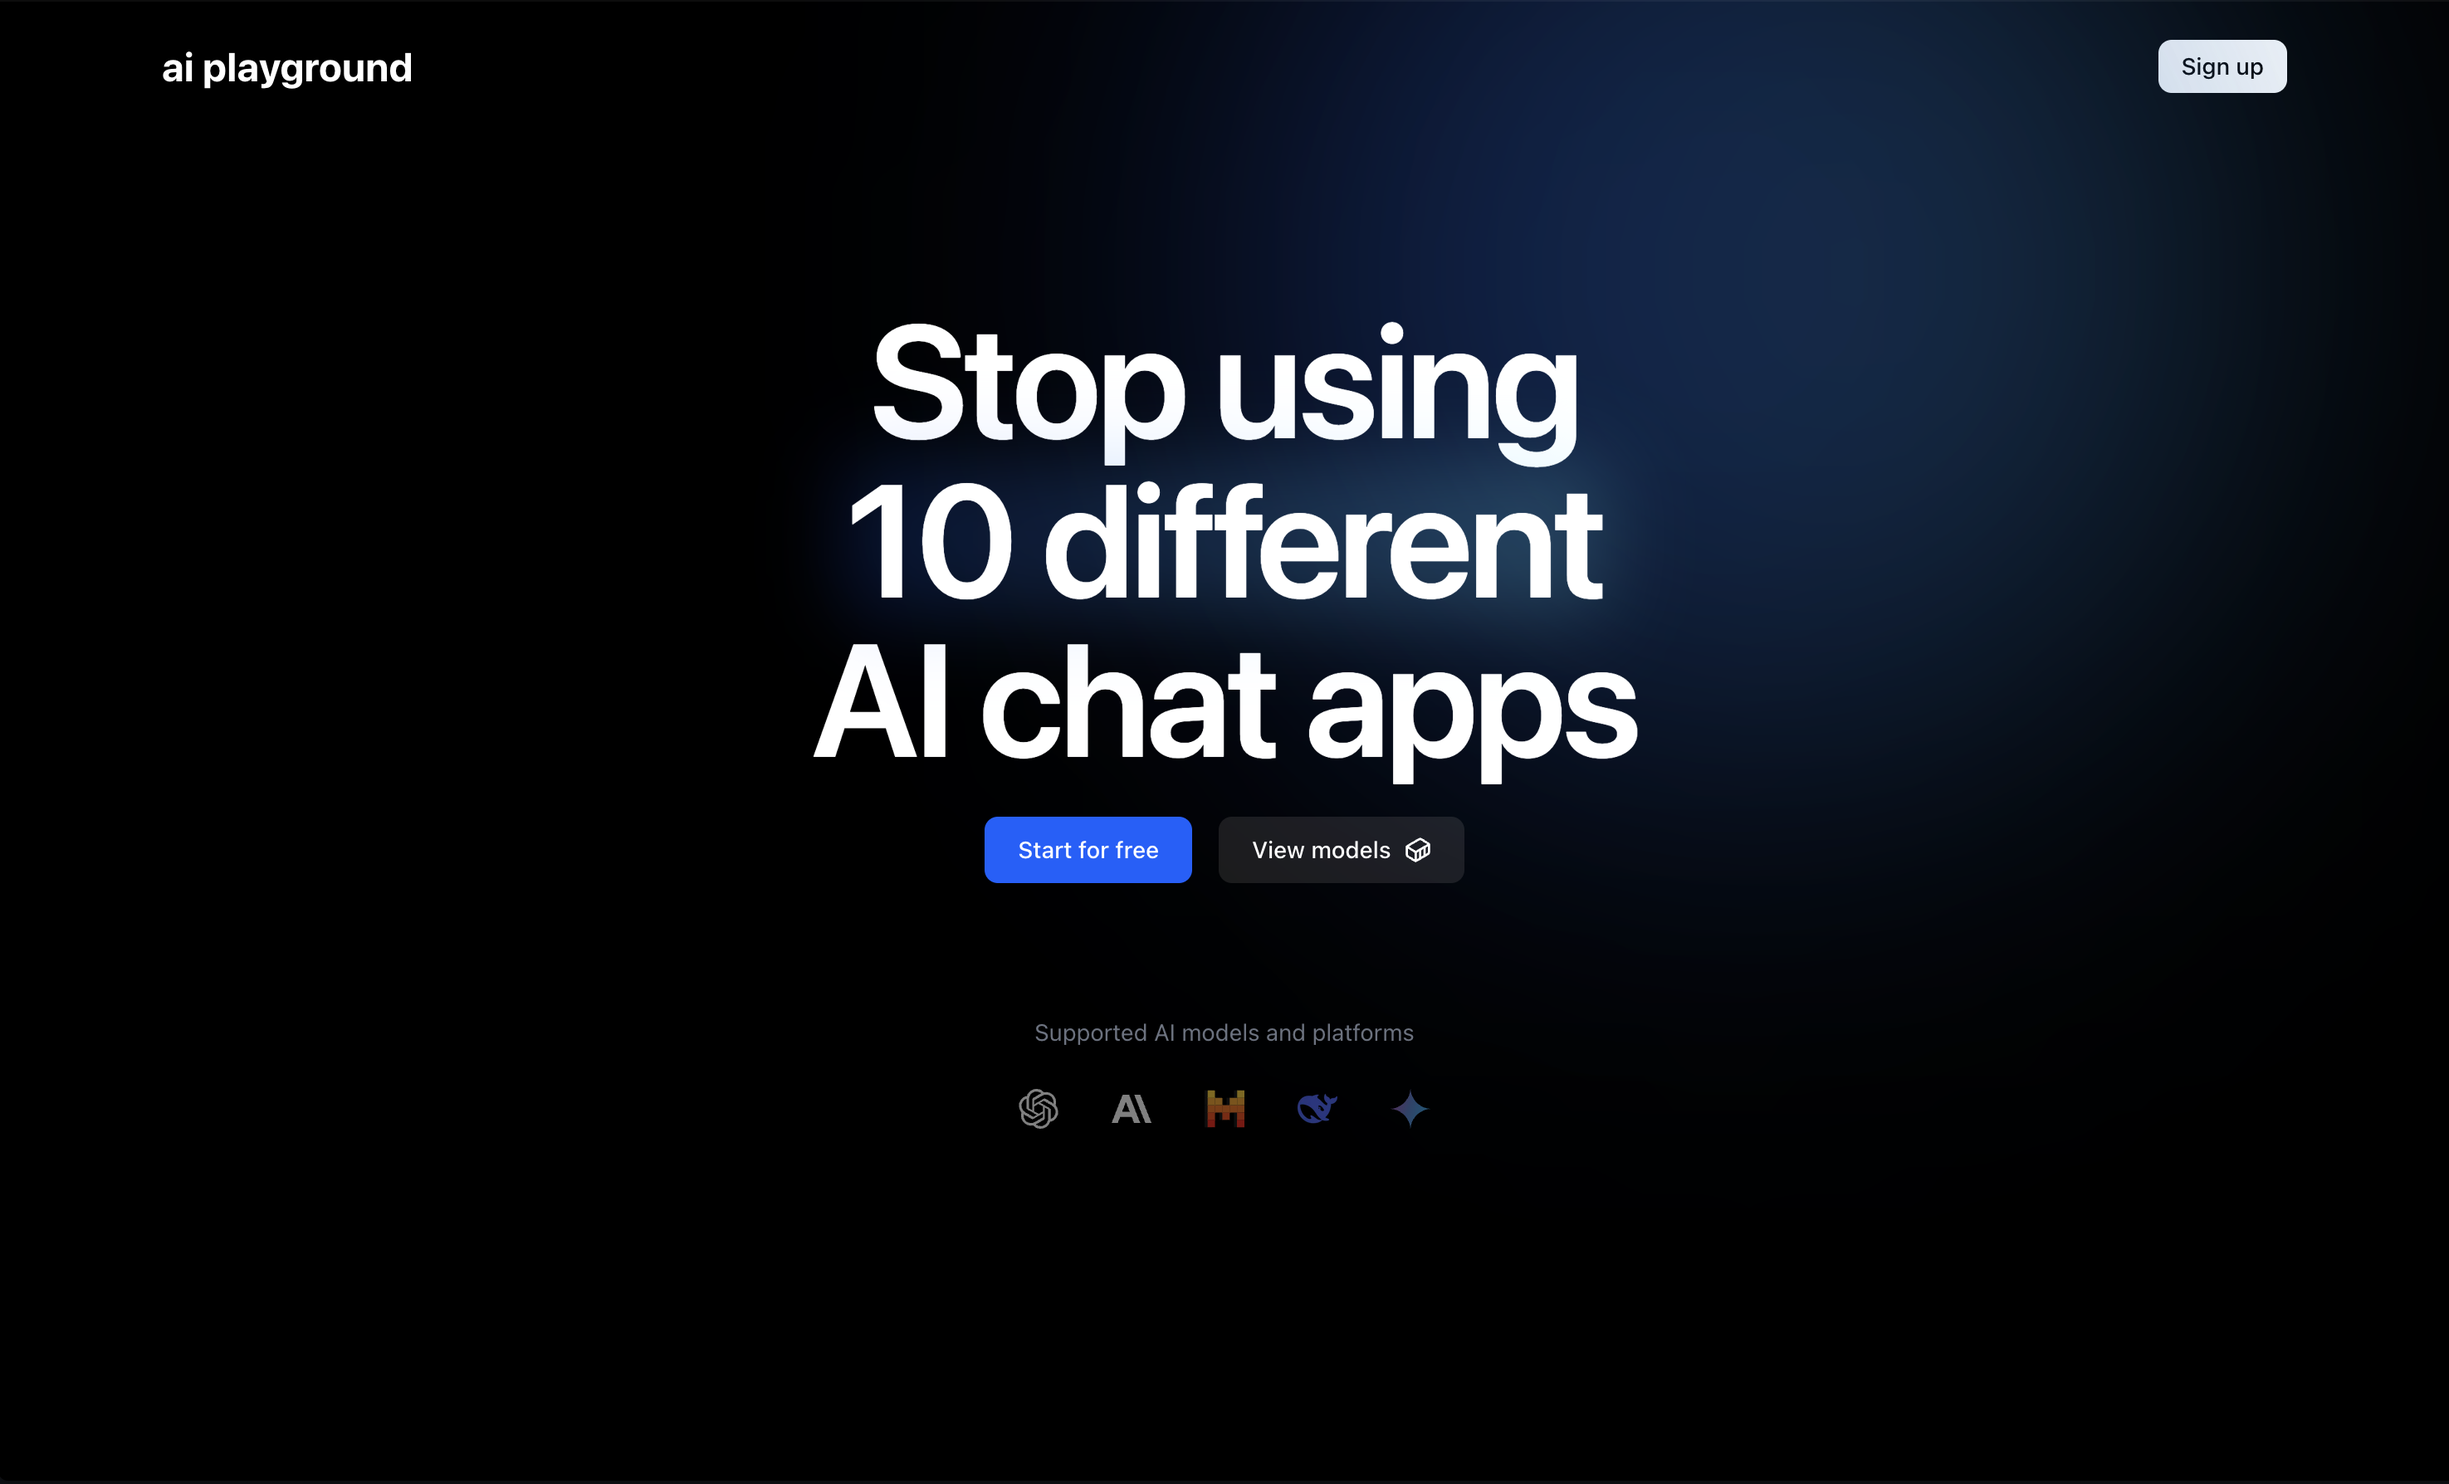
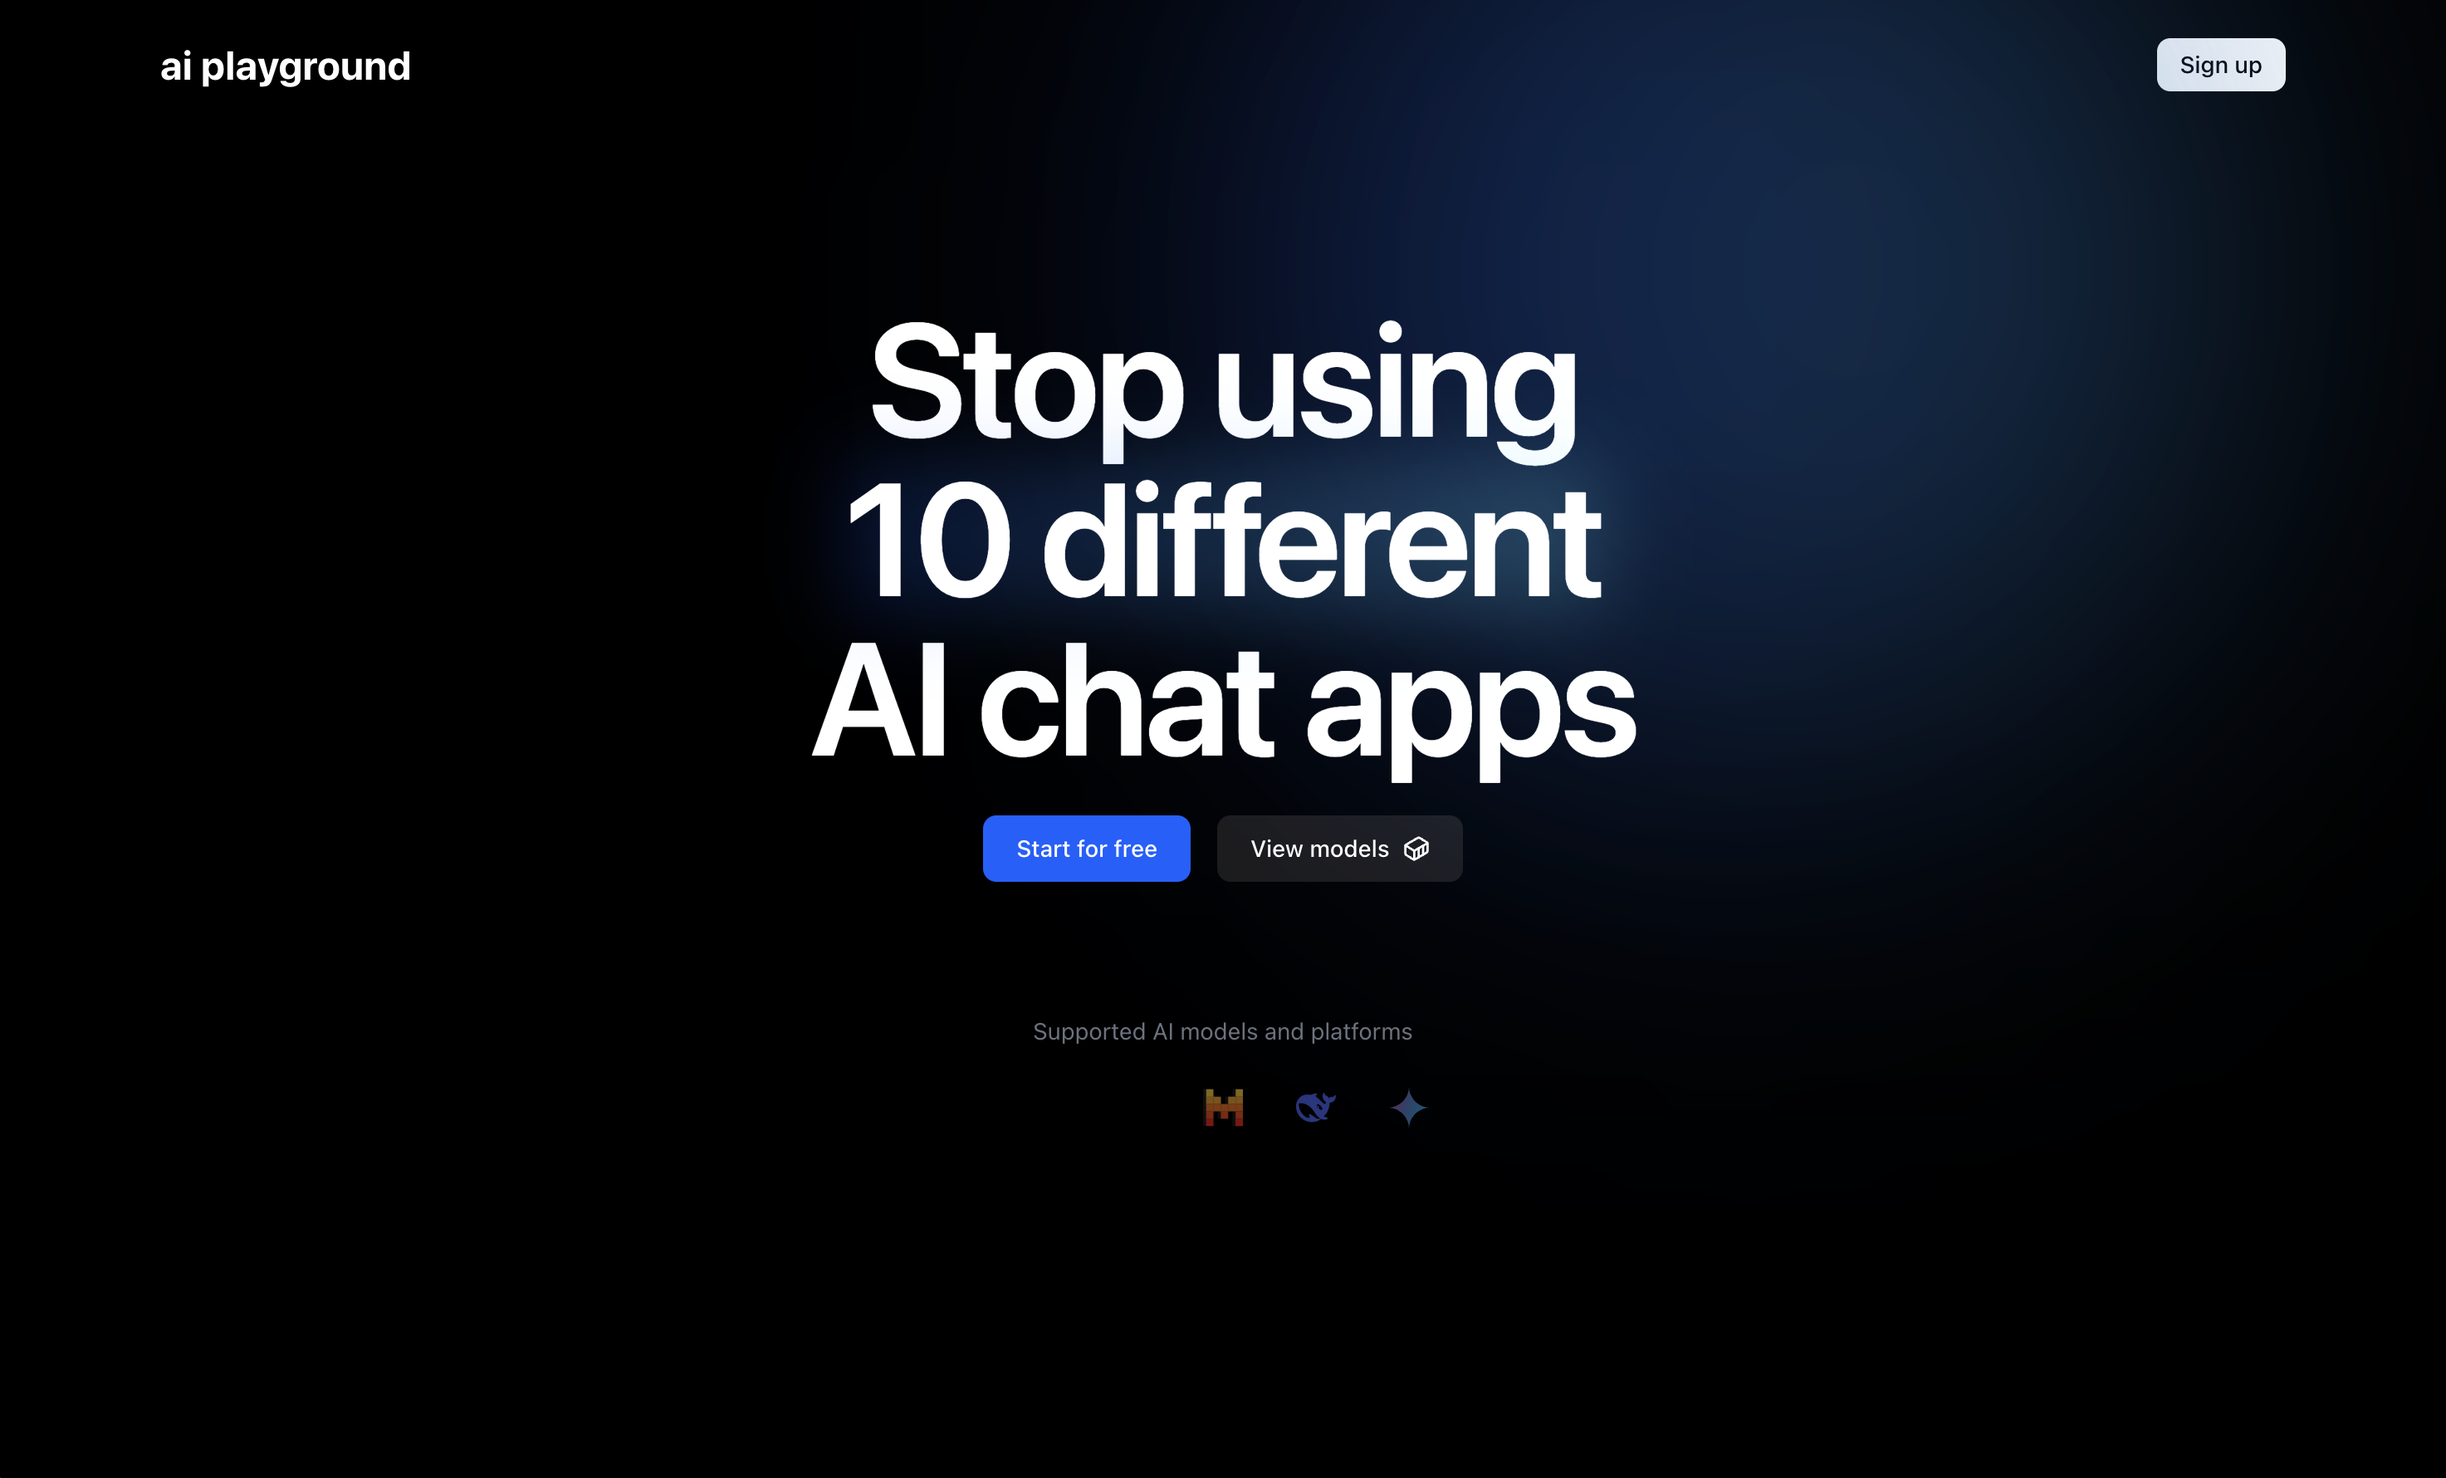
projects ui revamp

diff --git a/src/components/projects.tsx b/src/components/projects.tsx
@@ -1,18 +1,23 @@
 "use client";
 
-import { motion } from "motion/react";
 import Image from "next/image";
 import Link from "next/link";
 
 interface Project {
   title: string;
   description: string;
-  link: string;
+  link?: string;
   image: string;
   featured?: boolean;
 }
 
 export const projects: Project[] = [
+  {
+    title: "HyperEdit",
+    description: "transform your photos into beautiful art",
+    image: "/project/hyperedit.png",
+    featured: true,
+  },
   {
     title: "ai playground",
     description: "chat with every ai model",
@@ -22,19 +27,17 @@ export const projects: Project[] = [
   },
   {
     title: "ReviewBlocks",
-    description:
-      "course review website to help you choose your electives better",
+    description: "read reviews and choose your electives better",
     link: "https://reviewblocks.com",
     image: "/project/reviewblocks.png",
-    featured: true,
+    featured: false,
   },
   {
     title: "Xeno Events",
     description:
-      "events platform where you can create, manage and register for events. includes a qr based ticketing system",
-    link: "https://github.com/4tyam/xeno-events",
+      "events platform where you can create, manage and register for events. Includes a qr based ticketing system",
     image: "/project/xenoevents.png",
-    featured: true,
+    featured: false,
   },
 ];
 
@@ -42,56 +45,48 @@ interface ProjectsProps {
   featured?: boolean;
 }
 
-const linkFilter = (link: string) => {
-  return link.replace(/^https?:\/\/|\/$/g, "");
-};
-
 export default function Projects({ featured }: ProjectsProps) {
   const filteredProjects = featured
     ? projects.filter((project) => project.featured)
     : projects;
 
   return (
-    <div className="space-y-24">
+    <div className="space-y-32 sm:space-y-40 pb-20">
       {filteredProjects.map((project) => (
         <div key={project.title} className="group relative">
-          <div className="flex flex-col sm:flex-row gap-4 sm:gap-8">
-            <div className="flex-1 flex flex-col justify-between space-y-4 sm:space-y-0">
-              <div className="space-y-1">
-                <motion.a
+          <div className="flex flex-col md:flex-row gap-4 md:gap-6 items-center">
+            <div className="flex-1 order-2 md:order-1 w-full md:w-auto text-center sm:text-left">
+              <h2 className="text-xl sm:text-2xl font-medium hover:text-foreground/70 transition-colors inline-block">
+                {project.title}
+              </h2>
+              <p className="text-sm sm:text-base text-foreground/80 max-w-xl mt-0.5 mx-auto px-4 sm:px-0">
+                {project.description}
+              </p>
+
+              {project.link && (
+                <Link
                   href={project.link}
                   target="_blank"
                   rel="noopener noreferrer"
-                  className="text-lg sm:text-xl font-medium hover:text-foreground/70 transition-colors inline-block"
-                  initial={{ y: 0 }}
-                  whileHover={{ y: -3 }}
-                  transition={{ duration: 0.2 }}
                 >
-                  {project.title}
-                </motion.a>
-                <p className="text-foreground/80 max-w-xl text-sm sm:text-base">
-                  {project.description}
-                </p>
-              </div>
-              <Link
-                target="_blank"
-                rel="noopener noreferrer"
-                href={project.link}
-                className="text-xs text-gray-500 italic hover:text-foreground/80 transition-colors"
-              >
-                {linkFilter(project.link)}
-              </Link>
+                  <button className="inline-flex items-center gap-2 mt-4 px-4 py-2 bg-gray-100 rounded-full text-black text-sm transition-opacity duration-300 mx-auto">
+                    View
+                  </button>
+                </Link>
+              )}
             </div>
-            {project.image && (
-              <div className="relative w-full sm:w-48 h-48 sm:h-32 flex-shrink-0 order-first sm:order-last">
-                <Image
-                  src={project.image}
-                  alt={project.title}
-                  fill
-                  className="object-cover rounded-lg"
-                />
-              </div>
-            )}
+
+            <div
+              className="relative w-full md:w-[48%] aspect-[2946/1780] overflow-hidden rounded-lg order-1 md:order-2 mb-4 md:mb-0" // crop ratio mac (1473/889)
+            >
+              <Image
+                src={project.image}
+                alt={project.title}
+                fill
+                className="object-cover"
+                draggable={false}
+              />
+            </div>
           </div>
         </div>
       ))}

diff --git a/src/app/page.tsx b/src/app/page.tsx
@@ -4,13 +4,13 @@ import Projects from "@/components/projects";
 
 export default function Home() {
   return (
-    <div className="mt-16 flex flex-col items-center justify-center py-8 sm:py-16 w-full px-4 sm:px-6">
+    <div className="mt-32 sm:mt-20 flex flex-col items-center justify-center py-8 sm:py-16 w-full px-4 sm:px-6">
       <div className="w-full max-w-5xl">
         <div className="mb-12 sm:mb-20">
           <h1 className="text-4xl sm:text-6xl font-medium text-center">
             Aditya Atyam
           </h1>
-          <p className="text-sm sm:text-xl text-foreground/80 mt-4 text-center">
+          <p className="text-sm sm:text-xl text-foreground/80 mt-4 text-center mb-32">
             I study electronics and finance at bits pilani and skip classes to
             build stuff
           </p>

diff --git a/src/components/footer.tsx b/src/components/footer.tsx
@@ -5,7 +5,7 @@ import Link from "next/link";
 
 export default function Footer() {
   return (
-    <footer className="w-full py-3 sm:py-6 mt-auto border-t border-border">
+    <footer className="w-full py-4 sm:py-6 mt-auto border-t border-border">
       <div className="flex flex-col sm:flex-row items-center sm:items-start sm:justify-between gap-8 px-6 sm:px-20 max-w-7xl mx-auto">
         <Link href="/" className="hidden sm:block text-2xl">
           aditya atyam

diff --git a/src/components/header.tsx b/src/components/header.tsx
@@ -58,7 +58,7 @@ const NavItem = ({
       </motion.span>
       {isActive && (
         <motion.div
-          className="absolute -bottom-1 h-[1px] bg-foreground"
+          className="absolute -bottom-1 h-[2px] bg-foreground"
           layoutId="navunderline"
           style={{
             width: "2.5rem",

diff --git a/src/app/socials/page.tsx b/src/app/socials/page.tsx
@@ -45,7 +45,7 @@ const socialLinks: SocialLink[] = [
     ),
   },
   {
-    name: "X",
+    name: "twitter",
     url: "https://twitter.com/4tyam",
     username: "4tyam",
     icon: <Twitter className="w-5 h-5 sm:w-6 sm:h-6" />,
